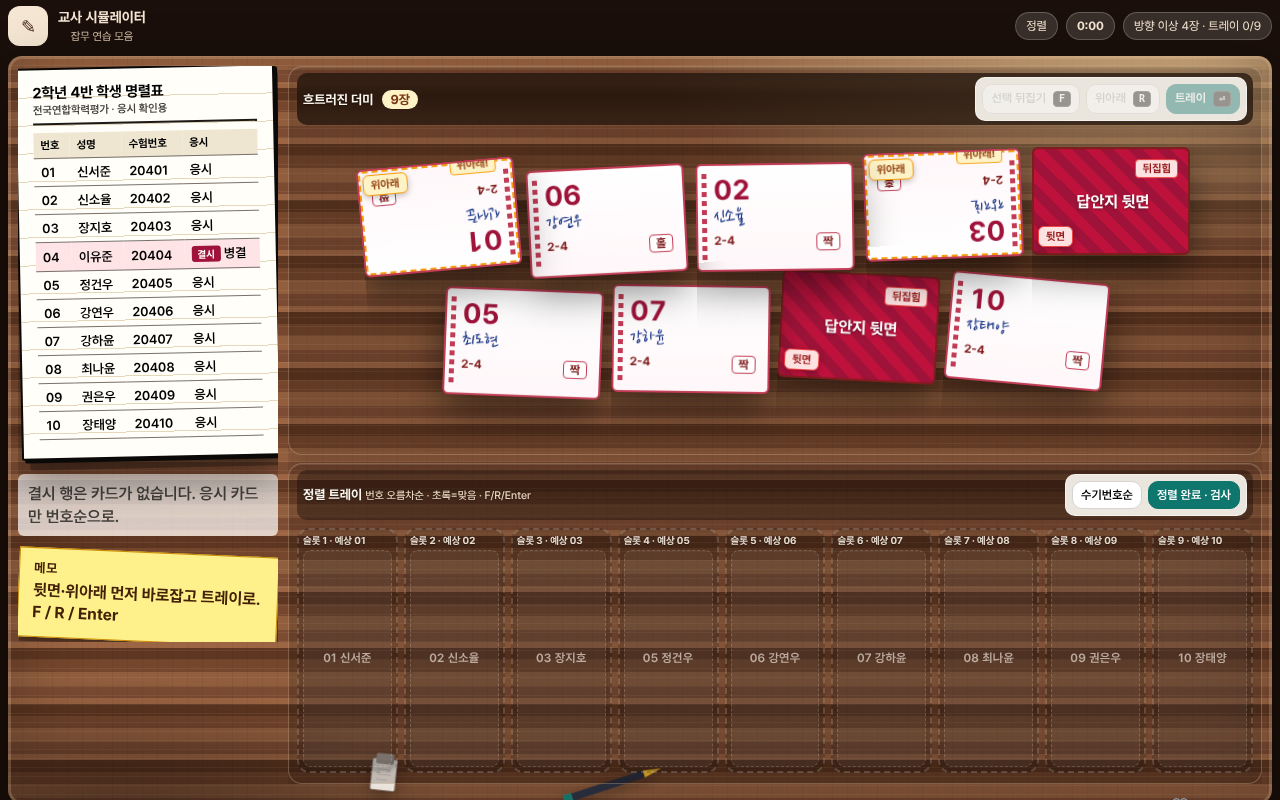
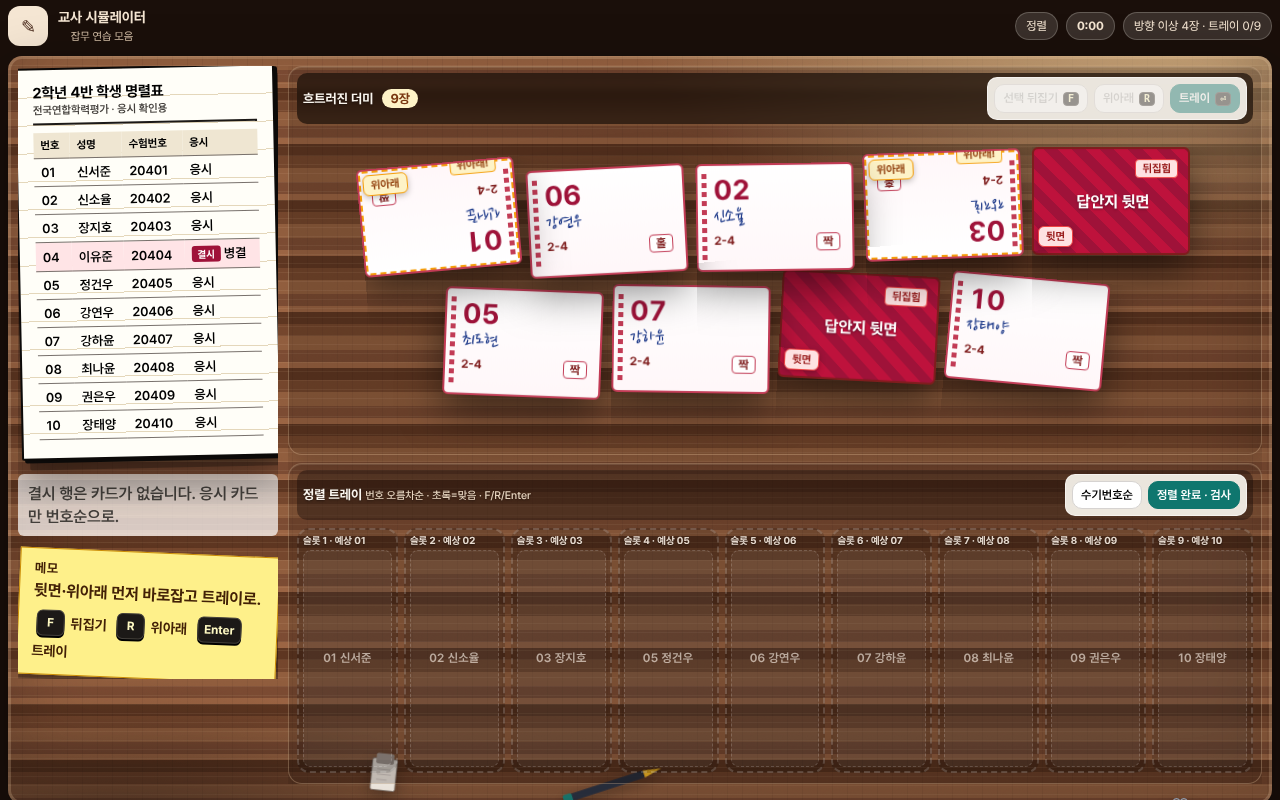
Round 0035: keyboard legend chips on sorting sticky
Show F / R / Enter as dark keycaps on the yellow memo so
orientation shortcuts stay obvious while sorting.

diff --git a/src/style.css b/src/style.css
@@ -1214,3 +1214,37 @@ kbd {
 @media (max-width: 1100px) {
   .result-list { grid-template-columns: 1fr !important; }
 }
+
+/* 0035 sticky kbd legend */
+.desk-sticky .kbd-row {
+  margin-top: 8px !important;
+  display: flex;
+  flex-wrap: wrap;
+  gap: 6px;
+  align-items: center;
+  font-size: 14px !important;
+  font-weight: 700;
+}
+.desk-sticky kbd {
+  display: inline-grid;
+  place-items: center;
+  min-width: 28px;
+  height: 26px;
+  padding: 0 6px;
+  border-radius: 6px;
+  background: #1c1917;
+  color: #fef9c3;
+  border: 1px solid #44403c;
+  box-shadow: 0 2px 0 #000;
+  font-family: var(--font);
+  font-size: 12px;
+  font-weight: 800;
+}
+.pile-actions kbd {
+  font-size: 10px;
+  background: #1c1917;
+  color: #fef9c3;
+  padding: 1px 4px;
+  border-radius: 4px;
+  margin-left: 2px;
+}

diff --git a/src/main.ts b/src/main.ts
@@ -492,7 +492,8 @@ function renderSorting() {
       <p class="side-note">결시 행은 카드가 없습니다. 응시 카드만 번호순으로.</p>
       <aside class="desk-sticky" aria-hidden="true">
         <b>메모</b>
-        <p>뒷면·위아래 먼저 바로잡고 트레이로. F / R / Enter</p>
+        <p>뒷면·위아래 먼저 바로잡고 트레이로.</p>
+        <p class="kbd-row"><kbd>F</kbd> 뒤집기 <kbd>R</kbd> 위아래 <kbd>Enter</kbd> 트레이</p>
       </aside>
     </aside>
     <div class="desk-work ${pile.length ? 'has-pile' : 'no-pile'}">

diff --git a/docs/issues/0035-sticky-kbd-legend.md b/docs/issues/0035-sticky-kbd-legend.md
@@ -1,0 +1,10 @@
+# 0035 Sticky keyboard legend
+
+## Critique
+Memo mentioned F/R/Enter but keys were easy to miss in running text.
+
+## Fix
+Separate kbd chips on the yellow sticky; style toolbar `<kbd>` too.
+
+## Verify
+e2e OK · viewport OK

diff --git a/docs/ROUNDLOG.md b/docs/ROUNDLOG.md
@@ -31,3 +31,6 @@
 
 ## Round 0034 (01:38 KST)
 - Wide tray 9-col row; denser results grid
+
+## Round 0035 (01:53 KST)
+- Sticky kbd legend chips
